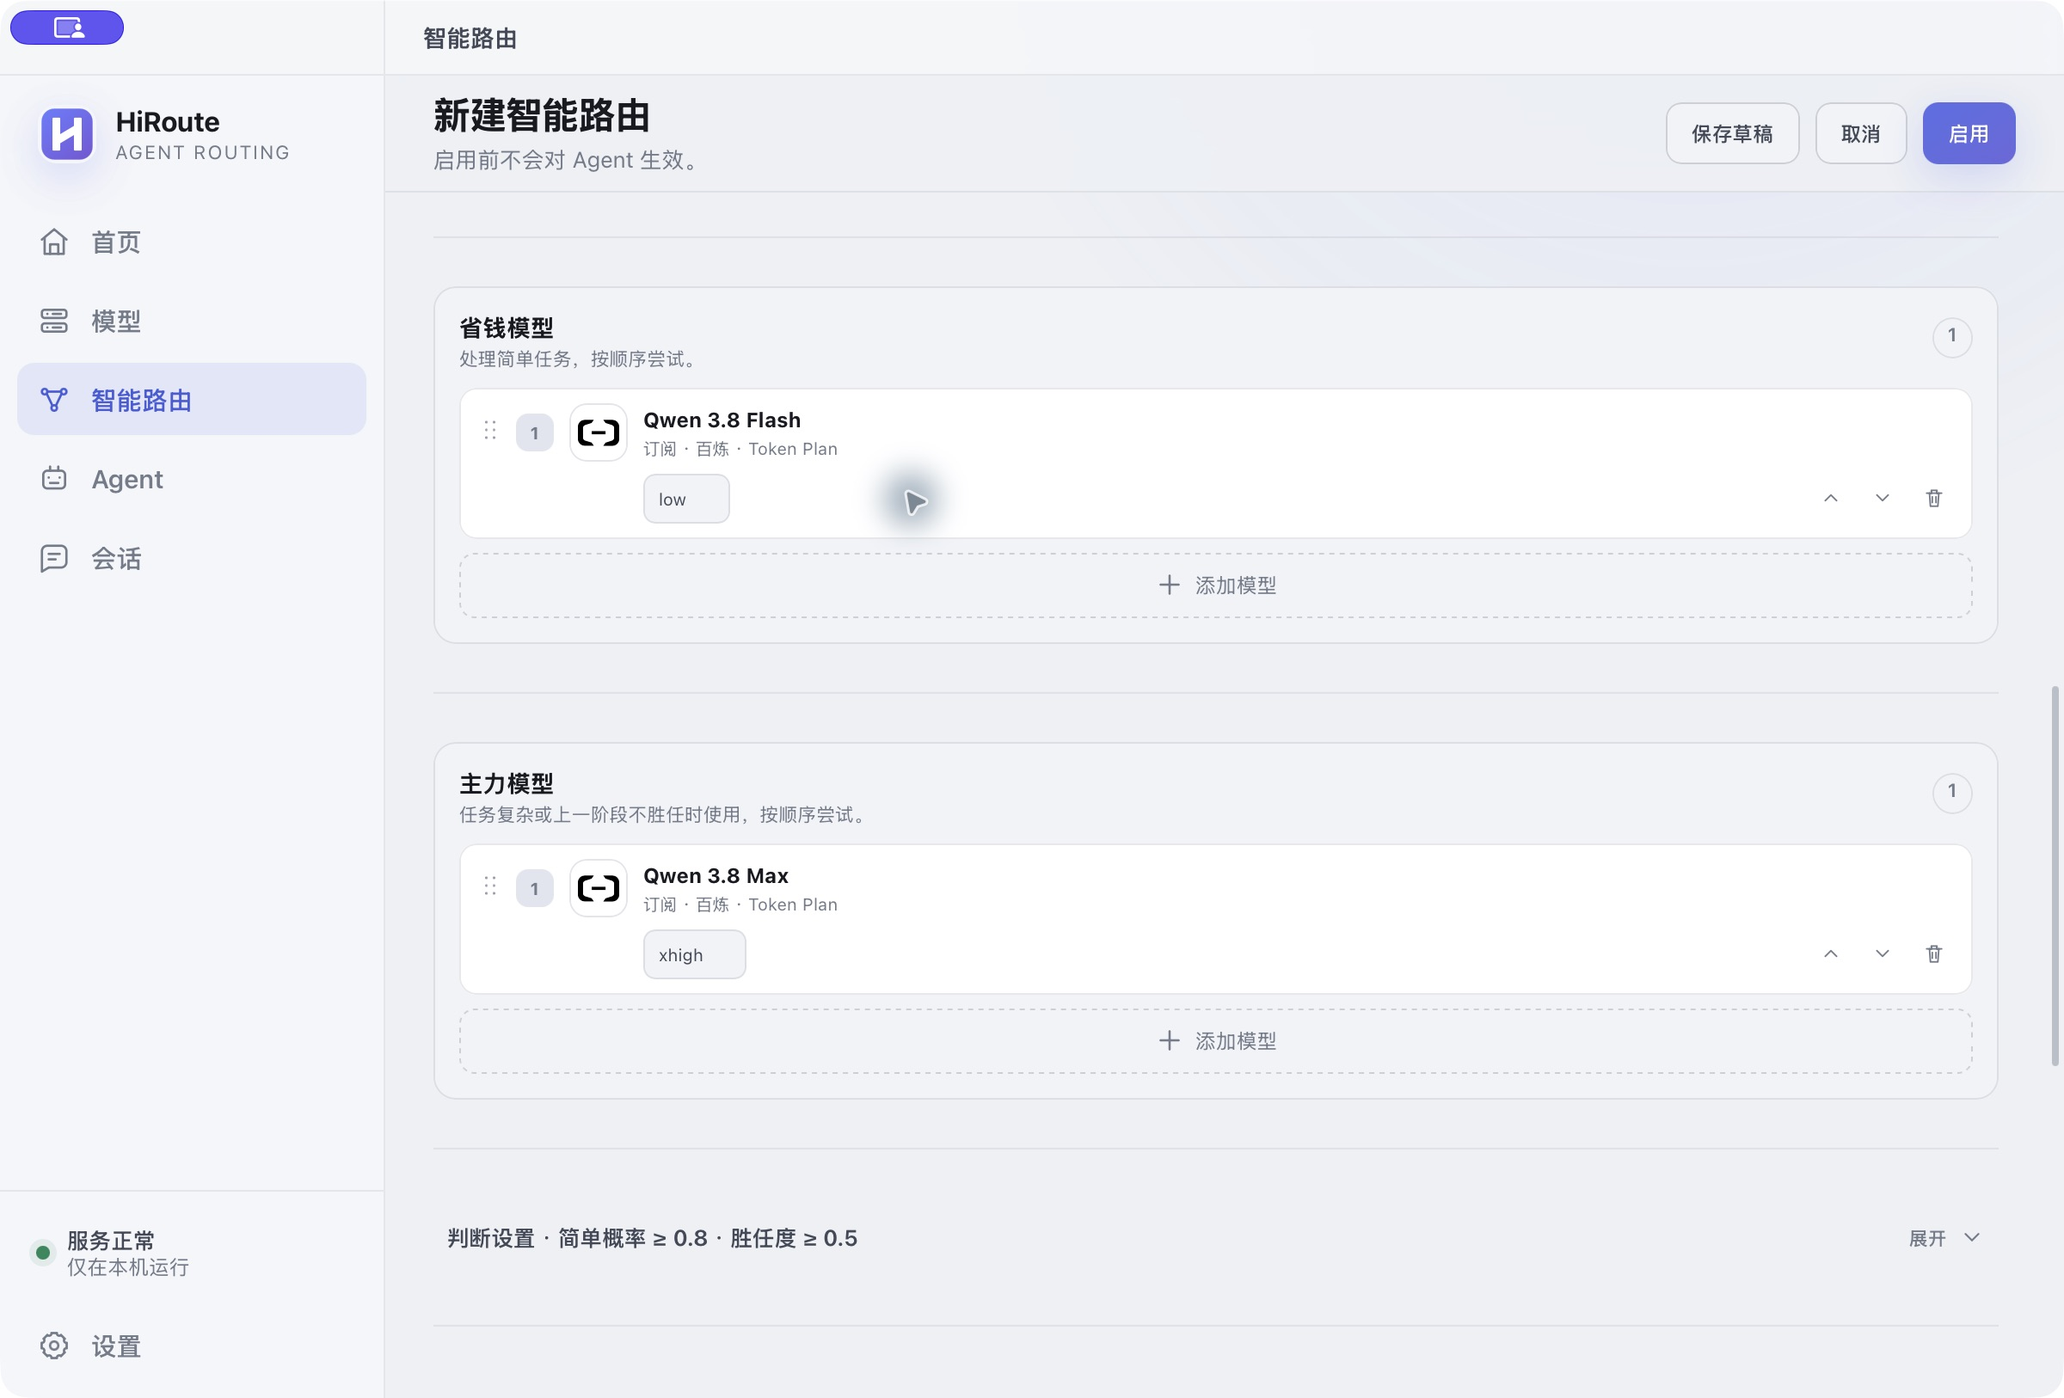
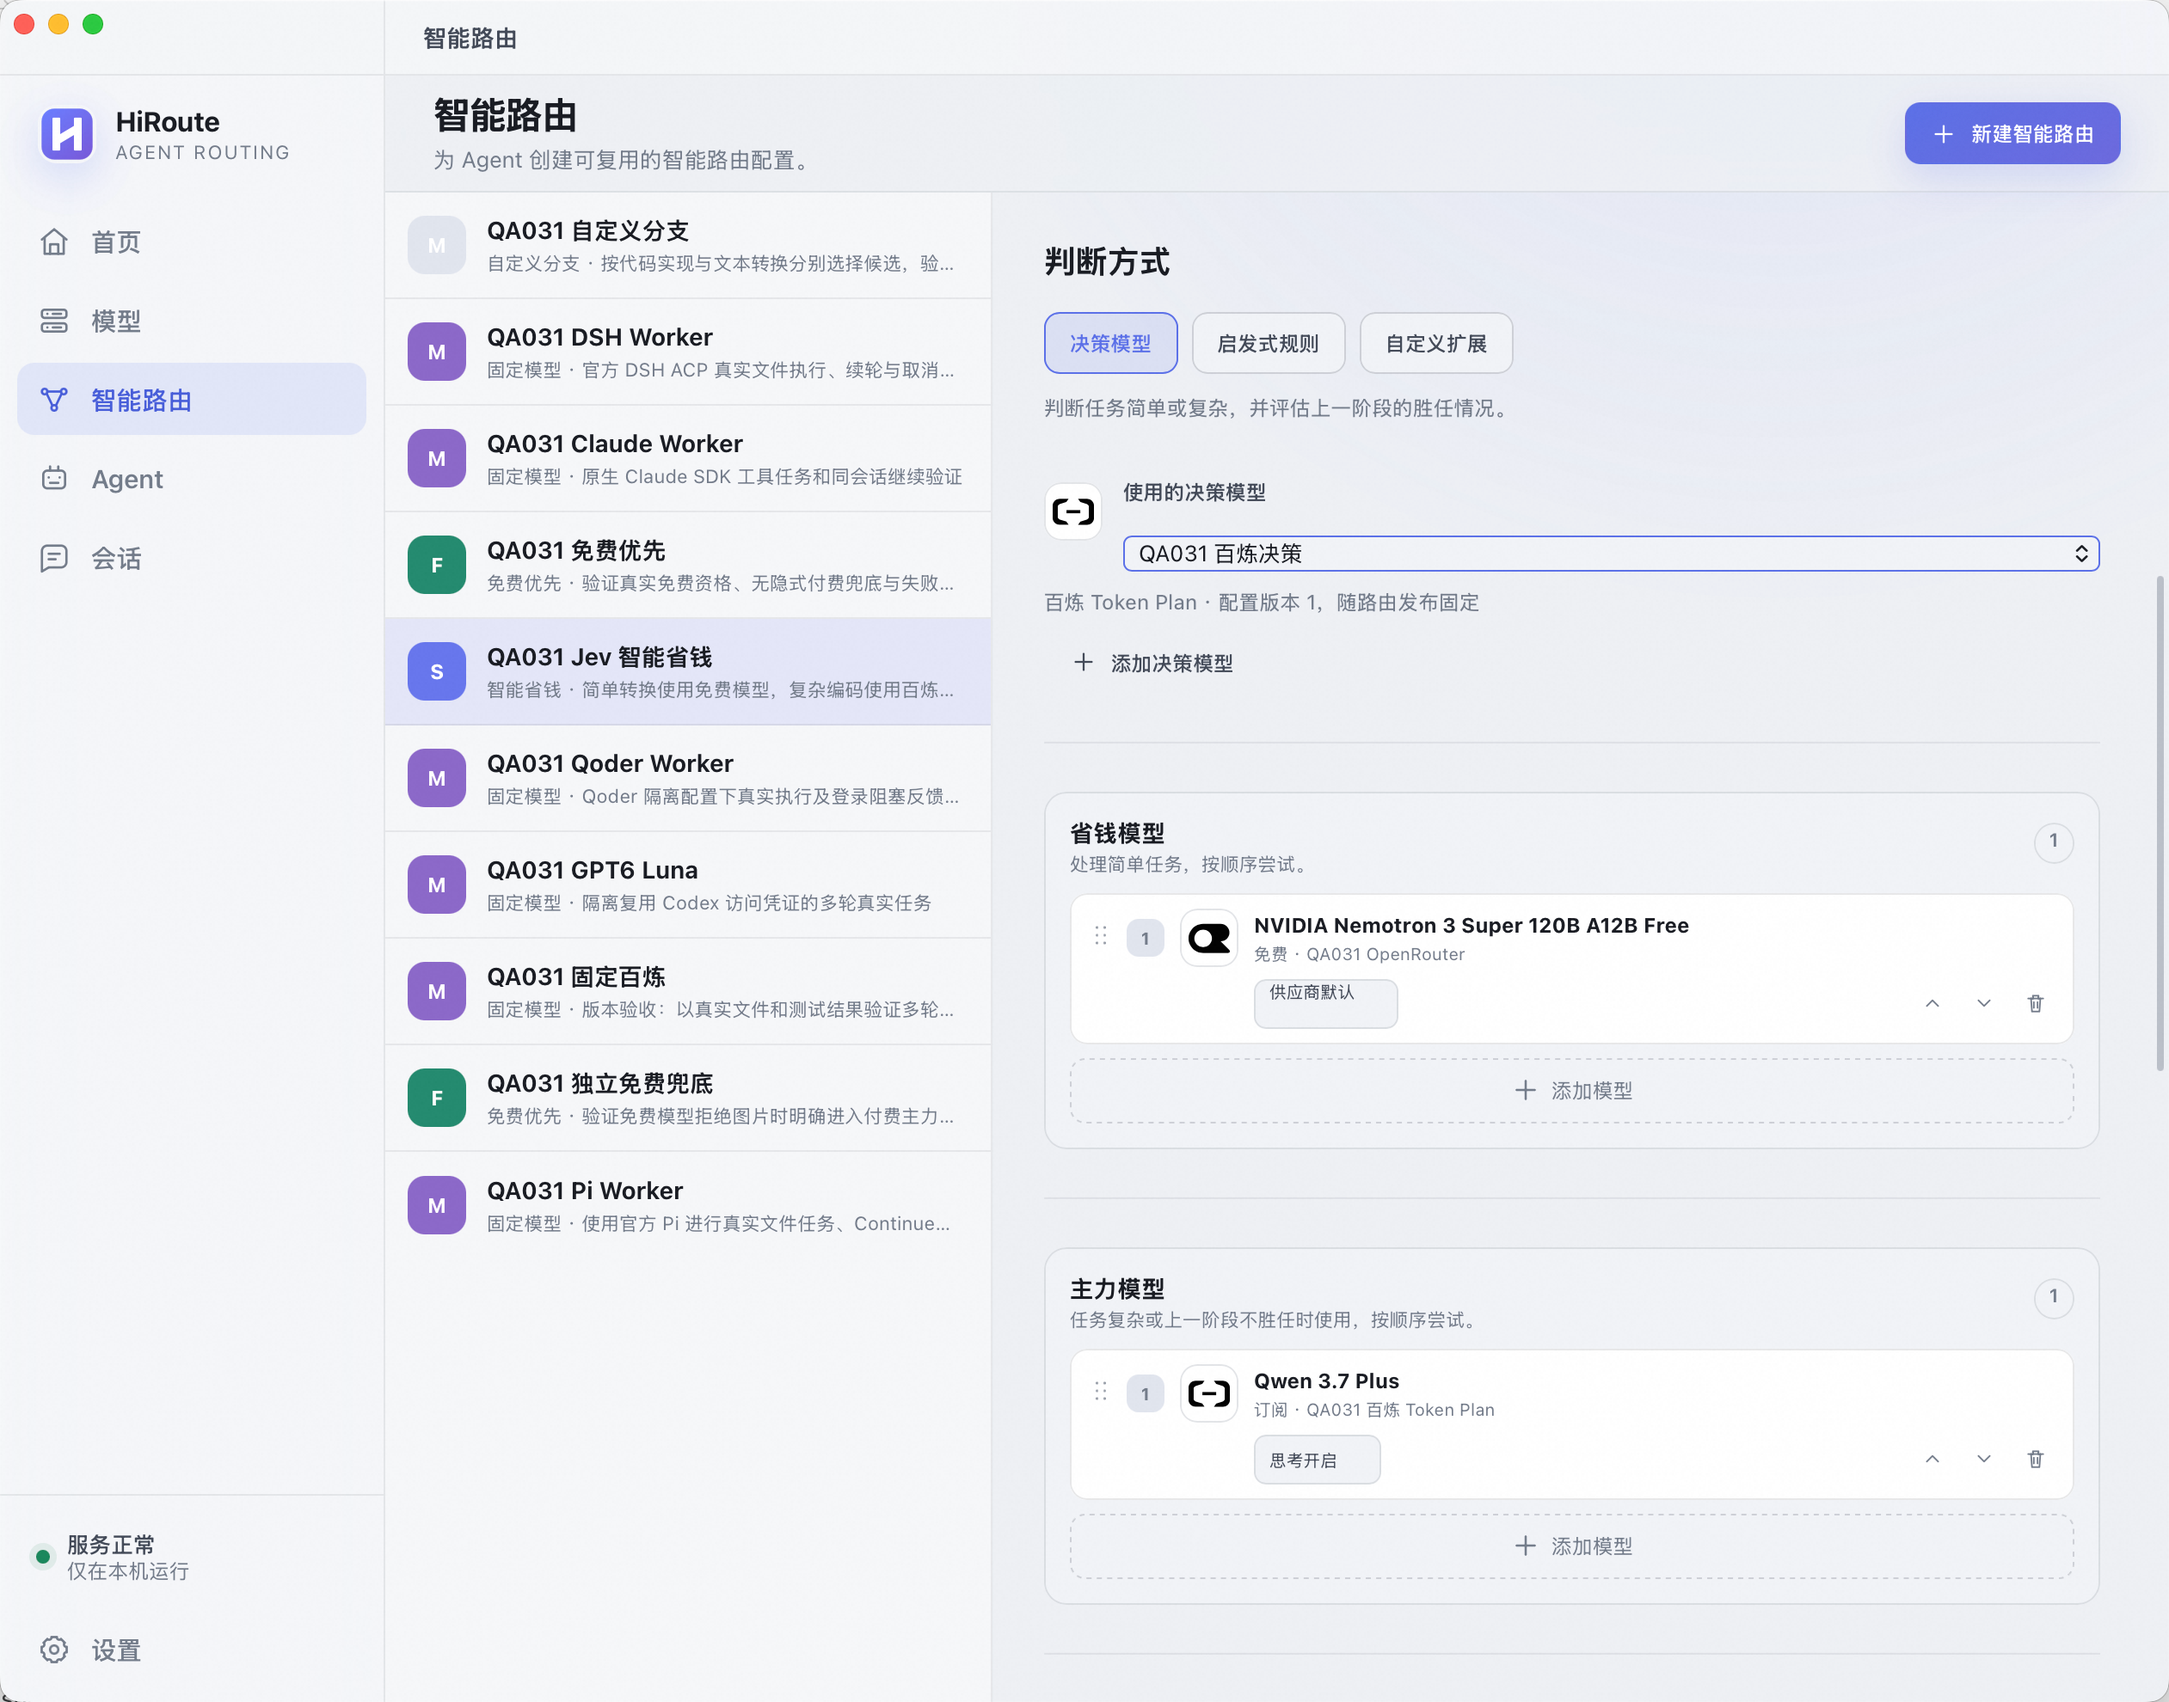
docs: 更新智能省钱与自定义分支截图

diff --git a/assets/imgs/hiroute-jev/README.md b/assets/imgs/hiroute-jev/README.md
@@ -2,20 +2,22 @@
 
 四张带文字的讲解图由内置 `image_gen` 生成，用于解释对话反馈与自主执行、产品职责、独立问题和当前路由规则，不是产品截图或实验测量。中文文字、字段名、箭头与示意计算已经逐图核对；原始提示词见 [illustration-prompts.json](illustration-prompts.json)。
 
-三张产品图是未修改的 macOS 原生 HiRoute Desktop 截图，来自 [HiRoute 公共提交](https://github.com/higress-group/HiRoute/tree/5232db559bb8e856d44549d5e1488c7cf4f78d83)，按原仓库 [Apache-2.0 许可证](https://github.com/higress-group/HiRoute/blob/5232db559bb8e856d44549d5e1488c7cf4f78d83/LICENSE) 引用并保留出处。
+两张历史记录产品图是未修改的 macOS 原生 HiRoute Desktop 截图，来自 [HiRoute 公共提交](https://github.com/higress-group/HiRoute/tree/5232db559bb8e856d44549d5e1488c7cf4f78d83)，按原仓库 [Apache-2.0 许可证](https://github.com/higress-group/HiRoute/blob/5232db559bb8e856d44549d5e1488c7cf4f78d83/LICENSE) 引用并保留出处。
 
 | 本目录文件 | 原仓库文件 | 捕获日期与数据来源 |
 | --- | --- | --- |
 | `desktop-session-competence-zh.png` | `news/assets/desktop-session-competence-zh.png` | 2026-10-05；隔离回放原始 HTTPX 阶段记录 |
 | `desktop-plan-competence-zh.png` | `news/assets/desktop-plan-competence-zh.png` | 同次捕获；已评分与未评分阶段汇总 |
-| `desktop-smart-saving-zh.png` | `news/assets/launch-smart-saving-zh.png` | 2026-10-08；尚未保存或启用的 Flash / Max 配置 |
 
-历史记录截图保持原始阶段身份和分数；0.485、0.775 的两位小数显示为 0.48、0.78，最终 Astra 阶段仍未评分。这些分数来自不同工作阶段，不代表受控模型排名。配置截图中的执行模型组合用于说明双组界面，与文章历史实验分别理解。
+历史记录截图保持原始阶段身份和分数；0.485、0.775 的两位小数显示为 0.48、0.78，最终 Astra 阶段仍未评分。这些分数来自不同工作阶段，不代表受控模型排名。
 
-公开原始说明见 [ILLUSTRATIONS.md](https://github.com/higress-group/HiRoute/blob/5232db559bb8e856d44549d5e1488c7cf4f78d83/news/ILLUSTRATIONS.md) 与 [原生捕获记录](https://github.com/higress-group/HiRoute/blob/5232db559bb8e856d44549d5e1488c7cf4f78d83/news/competence-product-views.json)。本次复制后核对了三张截图的公开 Git 对象和 SHA-256；文件尺寸、哈希及来源见 [provenance.json](provenance.json)。
+公开原始说明见 [ILLUSTRATIONS.md](https://github.com/higress-group/HiRoute/blob/5232db559bb8e856d44549d5e1488c7cf4f78d83/news/ILLUSTRATIONS.md) 与 [原生捕获记录](https://github.com/higress-group/HiRoute/blob/5232db559bb8e856d44549d5e1488c7cf4f78d83/news/competence-product-views.json)。本次复制后核对了两张截图的公开 Git 对象和 SHA-256；文件尺寸、哈希及来源见 [provenance.json](provenance.json)。
 
-## 自定义分支配置截图
+## 用户提供的配置截图
 
-`desktop-custom-branches-zh.png` 于 2026-10-14 通过 Computer Use 在真实 macOS HiRoute Desktop 中捕获。新建的“写稿与审稿”示例选择百炼决策连接；审稿分支展示任务条件与常规、主力模型组。
+2026-10-14，用户提供三张 HiRoute Desktop 截图并指定用于本文：
 
-截图来自未保存、未启用的配置示例。截图后取消新建并返回原页面，没有发布路由、改变已有计划或调用模型。截图工具返回的 JPEG 仅转换为 PNG，保持原尺寸；没有裁剪、重绘或合成界面。该图用于说明配置操作，模型组合是示例设置。尺寸及哈希记录在 `provenance.json`。
+- `desktop-smart-saving-zh.png`：第 3 张截图原样复制，展示百炼决策连接、免费省钱模型和 Qwen 3.7 Plus 主力模型。
+- `desktop-custom-branches-zh.png`：第 1、2 张截图按原尺寸左右拼接，中间增加 24 像素白色间隔，同时展示“代码实现”和“文本转换”分支。界面内容未裁剪、重绘或改写。
+
+截图中的配置与模型组合用于说明配置方式。尺寸、哈希和拼接方式记录在 `provenance.json`。
